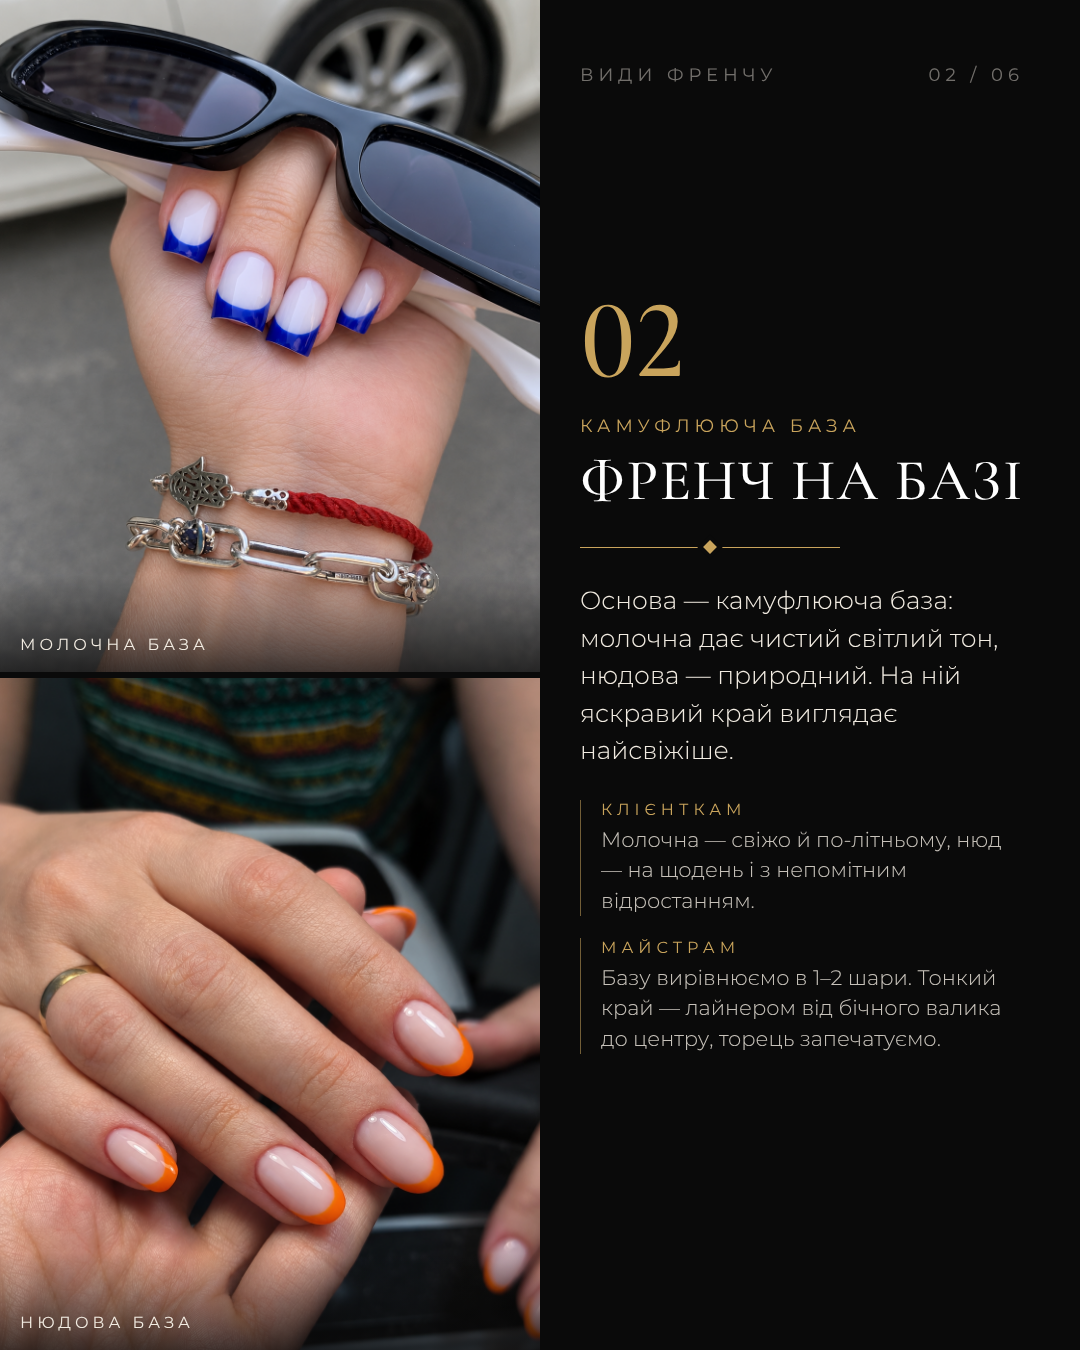
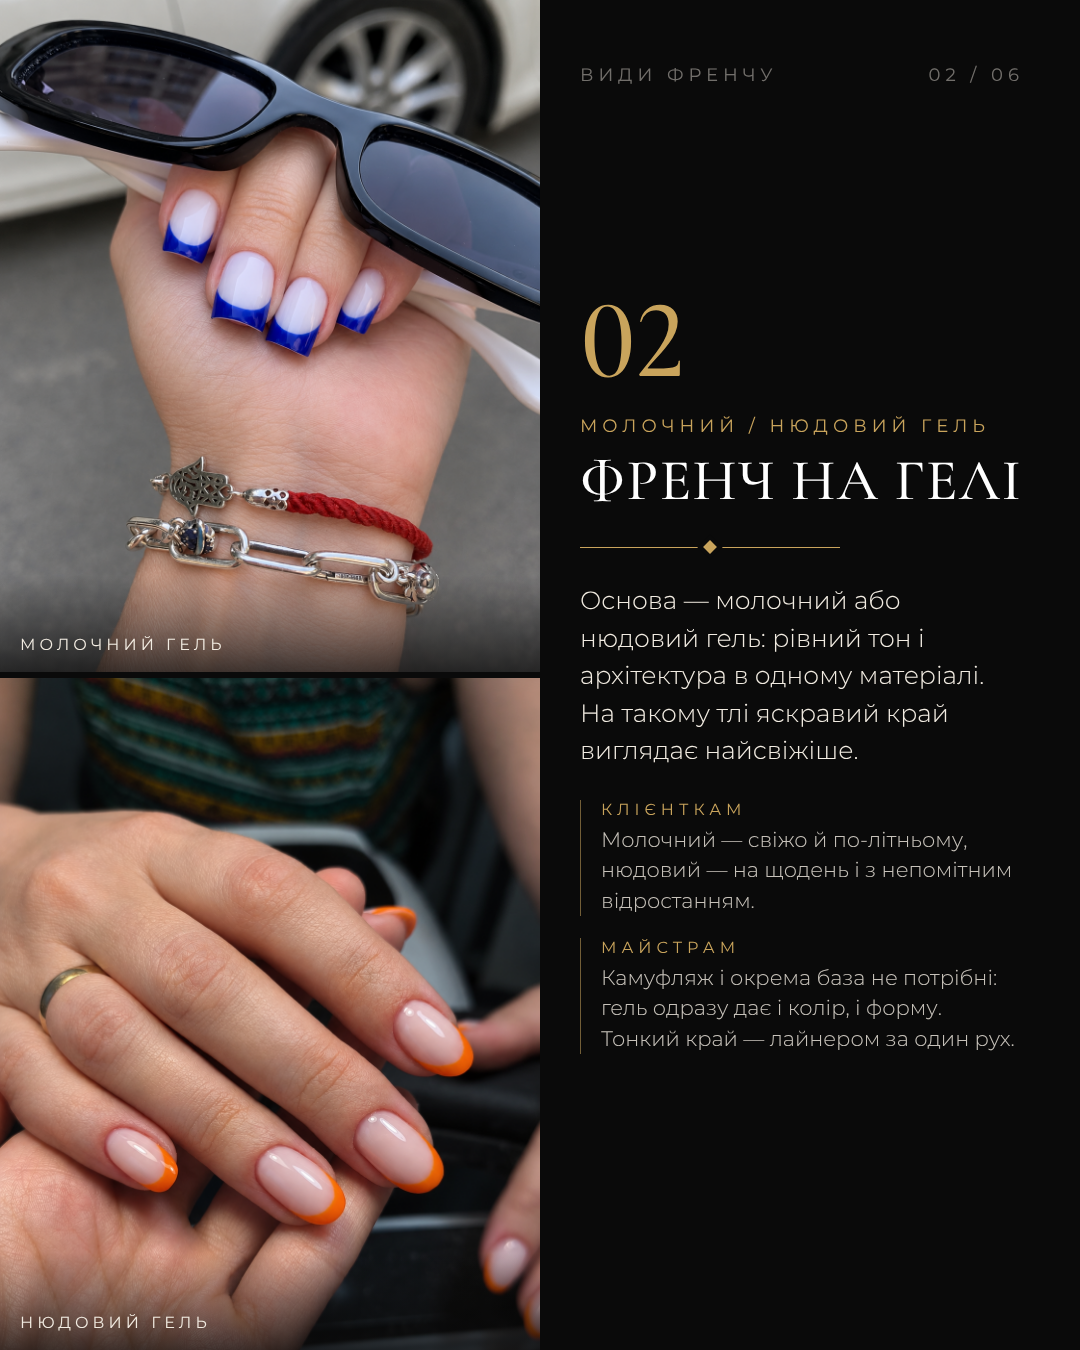
French carousel: slide 02 is milky / nude gel, drop outdated base-levelling and sealing tips
Claude-Session: https://claude.ai/code/session_01YBhnZ2HTXnspUMsw7oacVi

diff --git a/french-carousel/README.md b/french-carousel/README.md
@@ -8,7 +8,7 @@ Instagram 4:5 (1080×1350), 9 слайдів: обкладинка, 6 видів
 |---|---|---|
 | 01 | обкладинка | rainbow-chain |
 | 02 | Кольорове покриття (гель-лак + білий край) | burgundy, grey |
-| 03 | Френч на базі (молочна / нюдова) | milky-blue, nude-orange |
+| 03 | Френч на гелі (молочний / нюдовий гель) | milky-blue, nude-orange |
 | 04 | Френч + графіка (загальний і крупний план) | milky-graphic |
 | 05 | Колір + колір | pink-mint, orange-chocolate |
 | 06 | Френч + принт (зверху 4:5, знизу два вузькі) | white-leopard, black-leopard, pink-stiletto |
